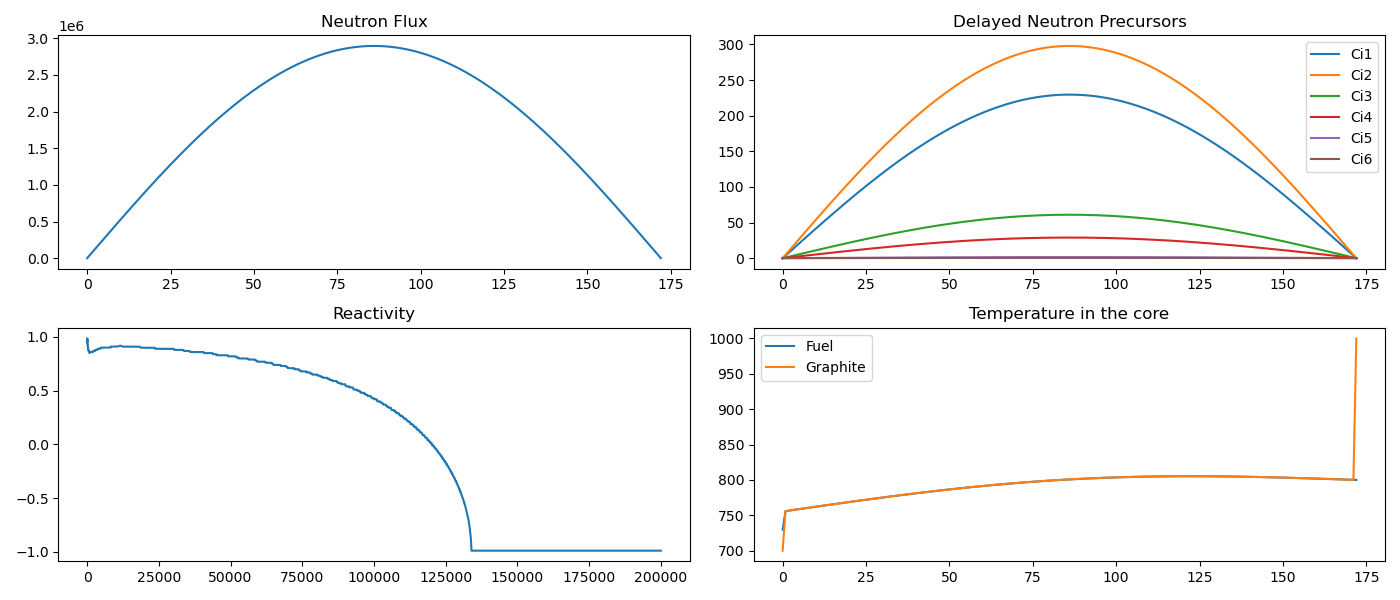
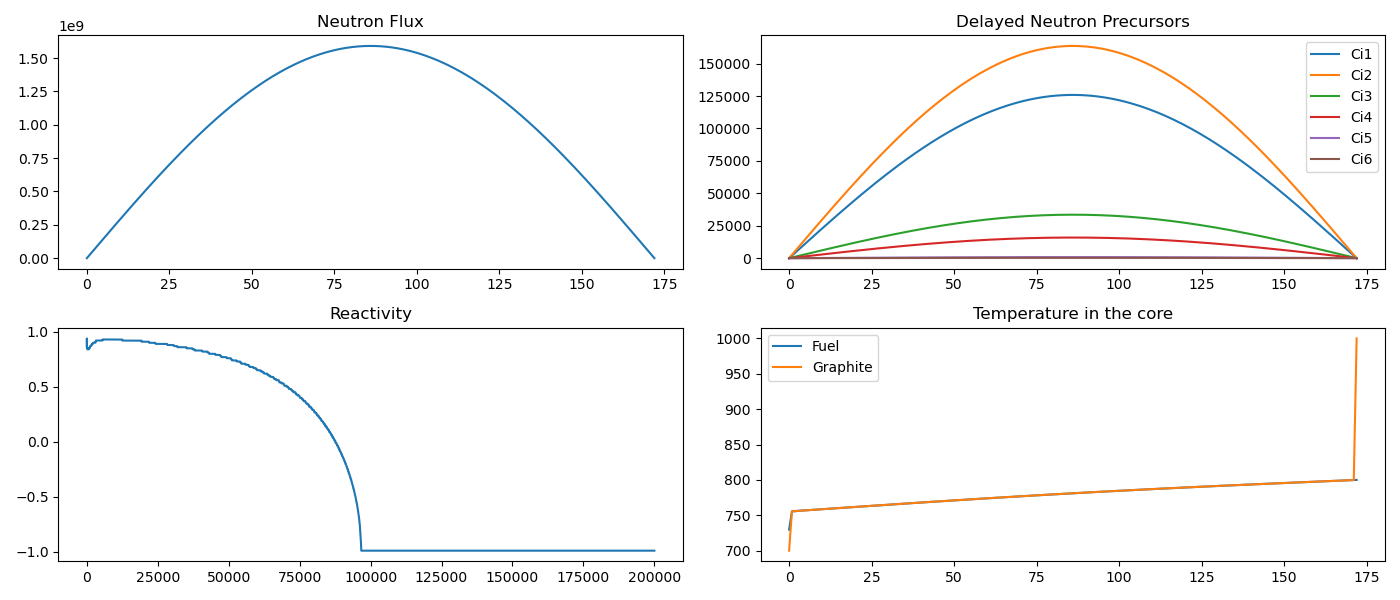
parameters and add insertion

diff --git a/HX1.py b/HX1.py
@@ -60,17 +60,16 @@ def HX1(y_hx1, Ts_HX1_L, Tss_HX1_0, params, step):
         dv_dt = C3 * (A_HX_sparse @ v) + C4 * (u - v) + err
         
         # Apply time-varying boundary conditions
-        # du_dt[0] = u_L - u[0] / dx
-        # du_dt[-1] = u_H - u[-1] / dx
-        # dv_dt[0] = v_L - v[0] / dx
-        # dv_dt[-1] = v_H - v[-1] / dx
-        du_dt[0] = (h_s / k_s) * (T_ambient - u[0]) - u[0] / dx  # Robin condition at the left boundary for `u`
-        du_dt[-1] = (h_s / k_s) * (T_ambient - u[-1]) - u[-1] / dx  # Robin condition at the right boundary for `u`
+        du_dt[0] = u_L - u[0] / dx
+        du_dt[-1] = u_H - u[-1] / dx
+        dv_dt[0] = v_L - v[0] / dx
+        dv_dt[-1] = v_H - v[-1] / dx
+        # du_dt[0] = (h_s / k_s) * (T_ambient - u[0]) - u[0] / dx  # Robin condition at the left boundary for `u`
+        # du_dt[-1] = (h_s / k_s) * (T_ambient - u[-1]) - u[-1] / dx  # Robin condition at the right boundary for `u`
 
-        dv_dt[0] = (h_ss / k_ss) * (T_ambient - v[0]) - v[0] / dx  # Robin condition at the left boundary for `v`
-        dv_dt[-1] = (h_ss / k_ss) * (T_ambient - v[-1]) - v[-1] / dx  # Robin condition at the right boundary for `v`
+        # dv_dt[0] = (h_ss / k_ss) * (T_ambient - v[0]) - v[0] / dx  # Robin condition at the left boundary for `v`
+        # dv_dt[-1] = (h_ss / k_ss) * (T_ambient - v[-1]) - v[-1] / dx  # Robin condition at the right boundary for `v`
 
-        
         dydt = np.concatenate([du_dt, dv_dt])
         return dydt
     

diff --git a/parameters.py b/parameters.py
@@ -42,7 +42,8 @@ def generate_parameters(
     Ms = 1448,   # 1448, Fuel salt mass in the core, kg
     Mg = 3687,   # 3687, Mass of graphite in the core, kg
     gamma = 0.93,    # 0.93, Fraction of power released in the salt
-    U = 36000,   # Overall heat transfer coefficient between salt and graphite, W/K
+    U_sg = 36000,   # Overall heat transfer coefficient between salt and graphite, W/K
+    U_gs = 36000,   # Overall heat transfer coefficient between graphite and salt, W/K
     # U = 1800,
     # Temp input for test:
     # Amplitude = 4.5e6;
@@ -121,7 +122,7 @@ def generate_parameters(
 
     # Reactivity
     # rho_init = 0 * np.ones(N)
-    max_rho_change = 0.0001,  # Maximum reactivity change, $/beta
+    max_rho_change = 1e-5,  # Maximum reactivity change, $/beta
     alpha_f    = -5.904E-5,  # -5.904E-5, U233 (drho/K) fuel salt temperature-reactivity feedback coefficient ORNL-TM-1647 p.3 % -5.904E-05; % ORNL-TM-0728 p. 101 %
     alpha_g    = -6.624E-5,  # -6.624E-5, U233  (drho/K) graphite temperature-reactivity feedback coefficient ORNL-TM-1647 p.3 % -6.624E-05; % ORNL-TM-0728 p.101
     tau_l  = 16.73,  # ORNL-TM-0728 %16.44; % (s)
@@ -187,7 +188,8 @@ def generate_parameters(
         'Ms': Ms,
         'Mg': Mg,
         'gamma': gamma,
-        'U': U,
+        'U_sg': U_sg,
+        'U_gs': U_gs,
         'c_p_g': c_p_g,
         'bc_s0': bc_s0,
         'bc_sL': bc_sL,

diff --git a/neutronics.py b/neutronics.py
@@ -24,17 +24,17 @@ def neutronics(y_n, rho, step, params):
     D2 = (np.diag(main_diag) + np.diag(off_diag, 1) + np.diag(off_diag, -1)) / dz**2
     
     # Boundary conditions: Dirichlet boundary conditions for zero flux at boundaries
-    # D2[0, :] = 0
-    # D2[-1, :] = 0
-    # D2[0, 0] = 1
-    # D2[-1, -1] = 1
+    D2[0, :] = 0
+    D2[-1, :] = 0
+    D2[0, 0] = 1
+    D2[-1, -1] = 1
     
     # Neumann boundary conditions: zero flux gradient at boundaries
-    D2[0, 0] = -2
-    D2[0, 1] = 2  # Approximate first derivative at the left boundary
+    # D2[0, 0] = -2
+    # D2[0, 1] = 2  # Approximate first derivative at the left boundary
 
-    D2[-1, -1] = -2
-    D2[-1, -2] = 2  # Approximate first derivative at the right boundary
+    # D2[-1, -1] = -2
+    # D2[-1, -2] = 2  # Approximate first derivative at the right boundary
 
     D2_sparse = csc_matrix(D2)
     I = np.eye(N)

diff --git a/main.py b/main.py
@@ -13,14 +13,14 @@ from transport_delay import transport_delay
 from power_plant import power_plant_temp
 
 def run_simulation(params, index):
-    time_span = 200000
+    time_span = 400000
     N = params['N']
     Nx = params['Nx']
     initialS = params['initialS']
     initialG = params['initialG']
 
     # Extract parameters
-    rho_insertion = 0 * np.ones(N)     # pcm
+    rho_insertion = 50 * np.ones(N)     # pcm
     rho = params['rho_init'] * np.ones(N)
     # rho = 0 * np.ones(N)
     y_n = np.zeros((7 * N, 1))
@@ -249,8 +249,8 @@ def main():
 
     # Generate parameter sets
     parameter_sets = [
-        generate_parameters(U=U) 
-        for U in U_values
+        # generate_parameters(U=U) 
+        # for U in U_values
         # for rho_init in rho_init_values
         # for V in V_values
         # for D in D_values

diff --git a/thermal_hydraulics.py b/thermal_hydraulics.py
@@ -8,7 +8,8 @@ from ode_solver import ode_solver
 
 def thermal_hydraulics(y_th, q_prime, Ts_core_0, params, step):
     Vc = params['Vc']
-    U = params['U']
+    U_sg = params['U_sg']
+    U_gs = params['U_gs']
     Ms = params['Ms']
     Mg = params['Mg']
     c_p_s = params['c_p_s']
@@ -27,9 +28,9 @@ def thermal_hydraulics(y_th, q_prime, Ts_core_0, params, step):
     
     # parameters transformation
     a_th = Vc
-    b_th = U / (Ms * c_p_s)
+    b_th = U_gs / (Ms * c_p_s)
     d_th = L * gamma / (Ms * c_p_s)
-    c_th = U / (Mg * c_p_g)
+    c_th = U_sg / (Mg * c_p_g)
     e_th = L * (1 - gamma) / (Mg * c_p_g)
 
     # discretize the spatial domain

diff --git a/reactivity.py b/reactivity.py
@@ -52,7 +52,7 @@ def reactivity(temperature_fuel_r, temperature_graphite_r, temperature_fuel, tem
     # react = timeseries(reactdata,reacttime);
     
     reactdata = [rho_init * 1e-5, rho_insertion * 1e-5]
-    if step < time_span/5:
+    if step < time_span/2:
         react = reactdata[0]
     else:
         react = reactdata[1]
